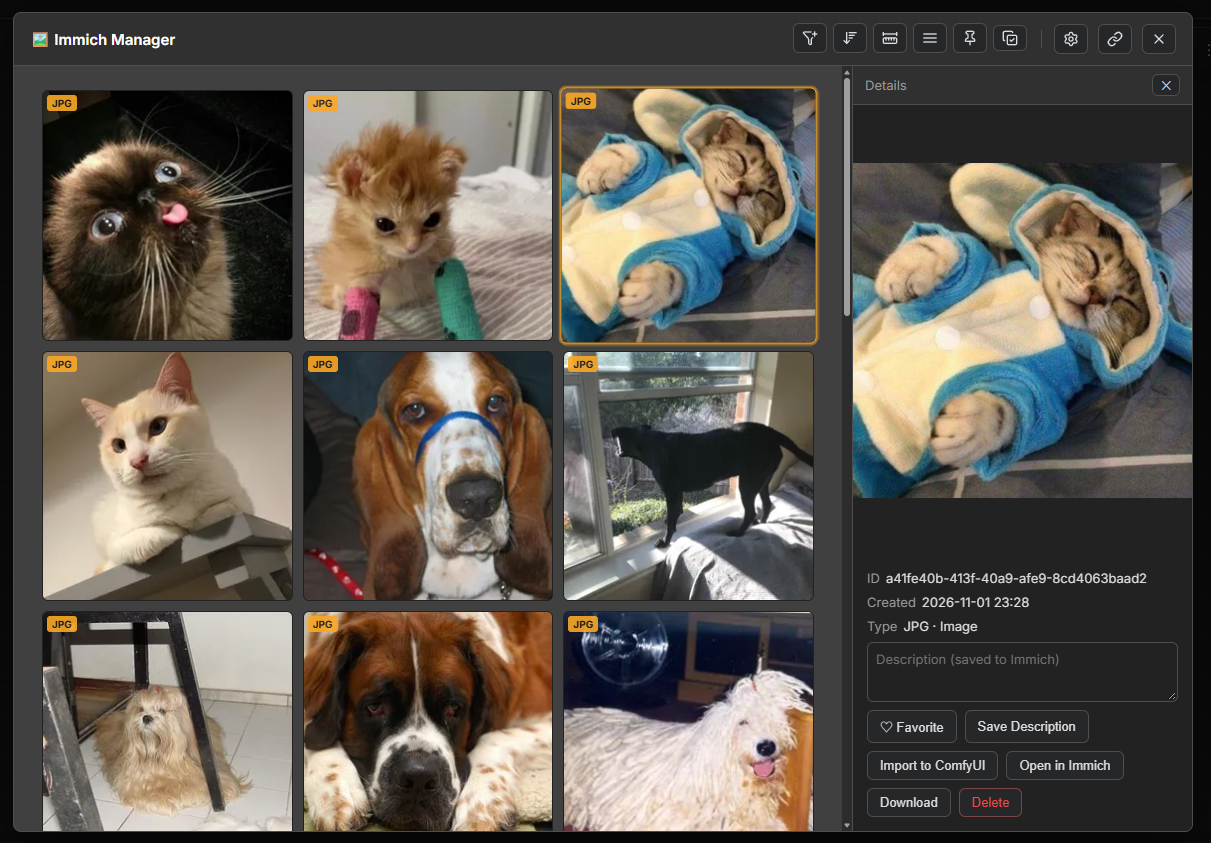
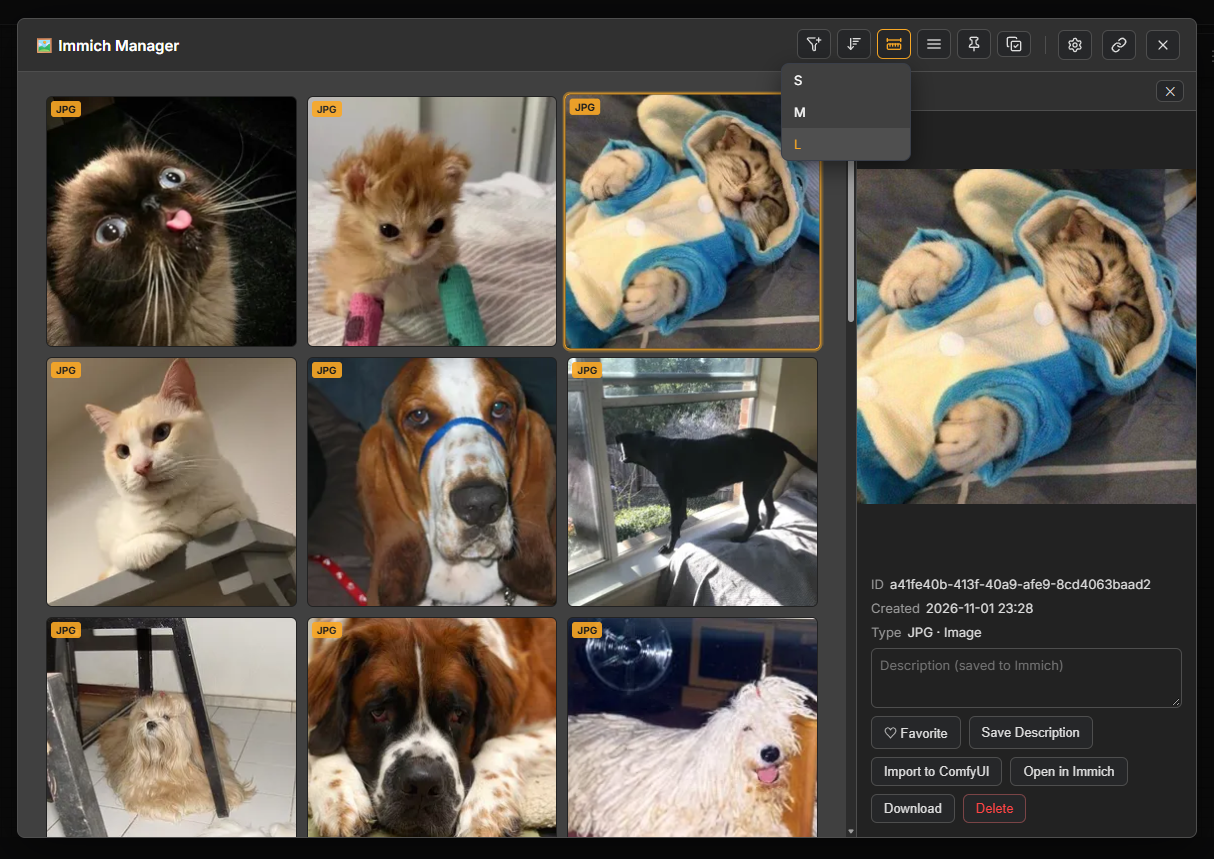
Show the three thumbnail sizes side by side
Replaces the single large-size shot with small, medium and large, each
captured with its entry marked in the zoom menu, so the README shows what the
setting actually changes.

diff --git a/README.md b/README.md
@@ -57,13 +57,23 @@
 
 ![Grouping menu and a month section](images/panel-grouping.png)
 
-**Sorting and zoom** — newest or oldest first, and three thumbnail sizes. The icon lights up while its menu is down.
+**Sorting** — newest or oldest first. The icon lights up while its menu is down.
 
 ![Sort menu](images/panel-sort-menu.png)
 
+**Zoom** — three thumbnail sizes, chosen from the ruler menu.
+
 ![Zoom menu](images/panel-toolbar.png)
 
-**Large thumbnails** — the same library at the largest size.
+**Small**
+
+![Small thumbnails](images/panel-zoom-small.png)
+
+**Medium**
+
+![Medium thumbnails](images/panel-zoom-medium.png)
+
+**Large**
 
 ![Large thumbnails](images/panel-zoom-large.png)
 

diff --git a/README.zh-CN.md b/README.zh-CN.md
@@ -57,13 +57,23 @@
 
 ![分组菜单与月份分区](images/panel-grouping.png)
 
-**排序与缩放** —— 最新/最早优先，三档缩略图尺寸；菜单展开时图标高亮。
+**排序** —— 最新/最早优先；菜单展开时图标高亮。
 
 ![排序菜单](images/panel-sort-menu.png)
 
+**缩放** —— 三档缩略图尺寸，在尺子菜单里选。
+
 ![缩放菜单](images/panel-toolbar.png)
 
-**大缩略图** —— 同一个库放到最大尺寸的样子。
+**小**
+
+![小缩略图](images/panel-zoom-small.png)
+
+**中**
+
+![中缩略图](images/panel-zoom-medium.png)
+
+**大**
 
 ![大缩略图](images/panel-zoom-large.png)
 
